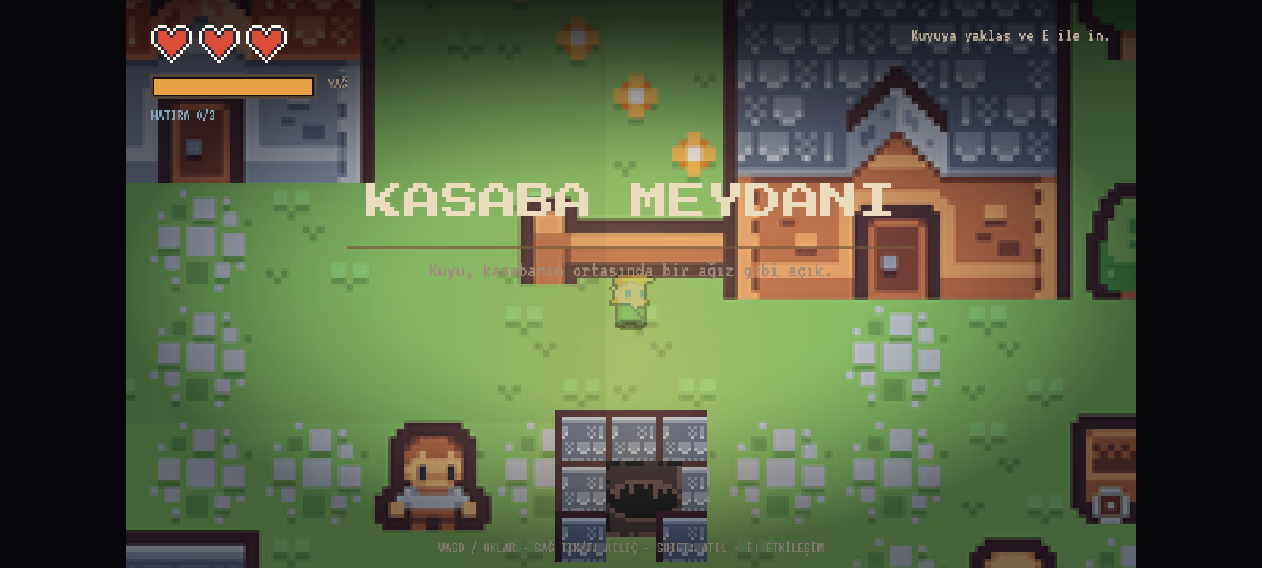
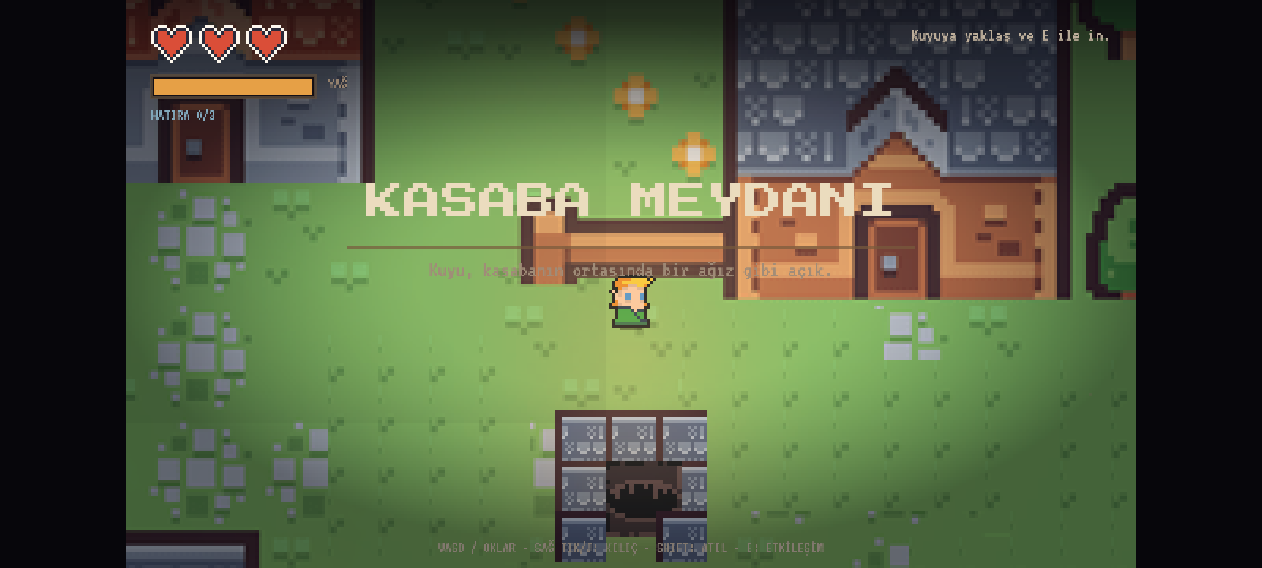
Kasabadaki hazir gorseldeki insanlar temizlendi ve agac govdelerine carpisma eklendi

diff --git a/src/main.js b/src/main.js
@@ -602,7 +602,7 @@ scene("game", (data = {}) => {
 
 	function buildTown() {
 		// ready-made Kenney town sample crop: houses, fences, flowers, trees
-		add([sprite("town_sample"), pos(0, 0), z(0)]);
+		add([sprite("town_sample_v3"), pos(0, 0), z(0)]);
 
 		const solid = (x, y, w, h, tag = "townsolid") => add([
 			rect(w, h), pos(x, y), anchor("center"),
@@ -621,6 +621,12 @@ scene("game", (data = {}) => {
 			[50, 42, 105, 84], [225, 60, 105, 64], [405, 72, 100, 68],
 			[50, 235, 110, 82], [570, 85, 110, 70], [570, 300, 120, 150],
 		]) solid(x, y, w, h, "house");
+
+		// tree trunks from the sample crop (canopy centres -> base collider)
+		for (const [x, y] of [
+			[264, 312], [338, 312], [522, 91], [485, 55],
+			[9, 165], [44, 211], [486, 137], [81, 174],
+		]) solid(x, y, 20, 24, "tree");
 
 		// soft lamp glow near the square
 		add([sprite("glow"), pos(20 * TILE + 8, 10 * TILE), anchor("center"), scale(1.1), opacity(0.2), z(800)]);

diff --git a/src/assets.js b/src/assets.js
@@ -72,7 +72,7 @@ export function loadAssets(k) {
 	k.loadSprite("weapon_regular_sword", "assets/0x72/weapons/weapon_regular_sword.png");
 	k.loadSprite("weapon_rusty_sword", "assets/0x72/weapons/weapon_rusty_sword.png");
 
-	for (const w of ["grass", "dirt", "water", "flowers", "wood_floor", "wall_beige", "wall_base", "tree", "roof_red", "wall_stone", "door", "bed", "table", "chair", "shelf", "window", "town_bg", "town_sample"]) {
+	for (const w of ["grass", "dirt", "water", "flowers", "wood_floor", "wall_beige", "wall_base", "tree", "roof_red", "wall_stone", "door", "bed", "table", "chair", "shelf", "window", "town_bg", "town_sample", "town_sample_clean", "town_sample_v3"]) {
 		k.loadSprite(w, `assets/world/${w}.png`);
 	}
 
